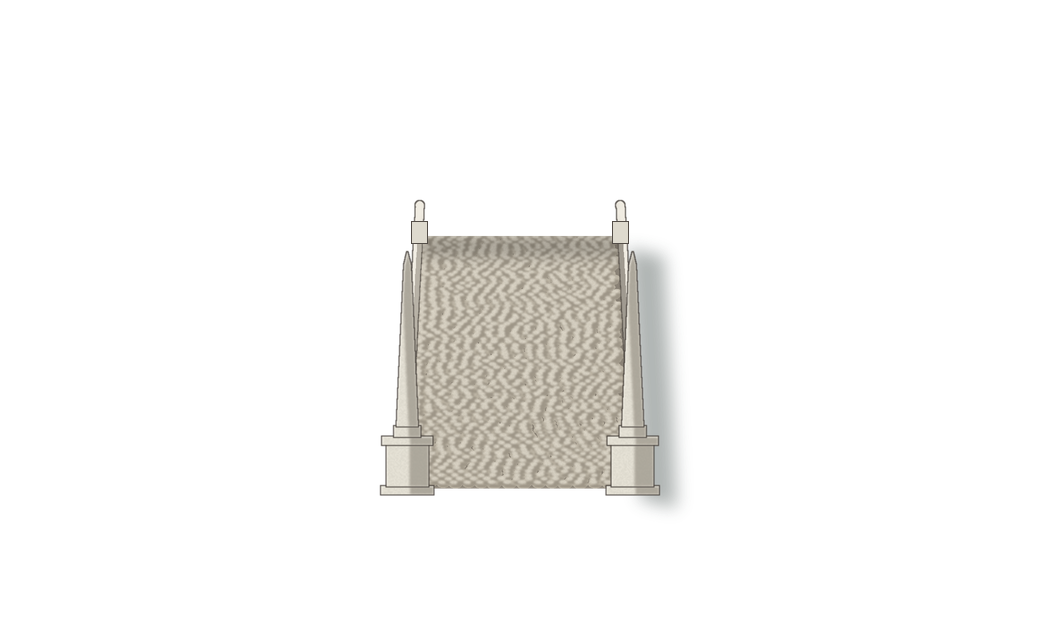
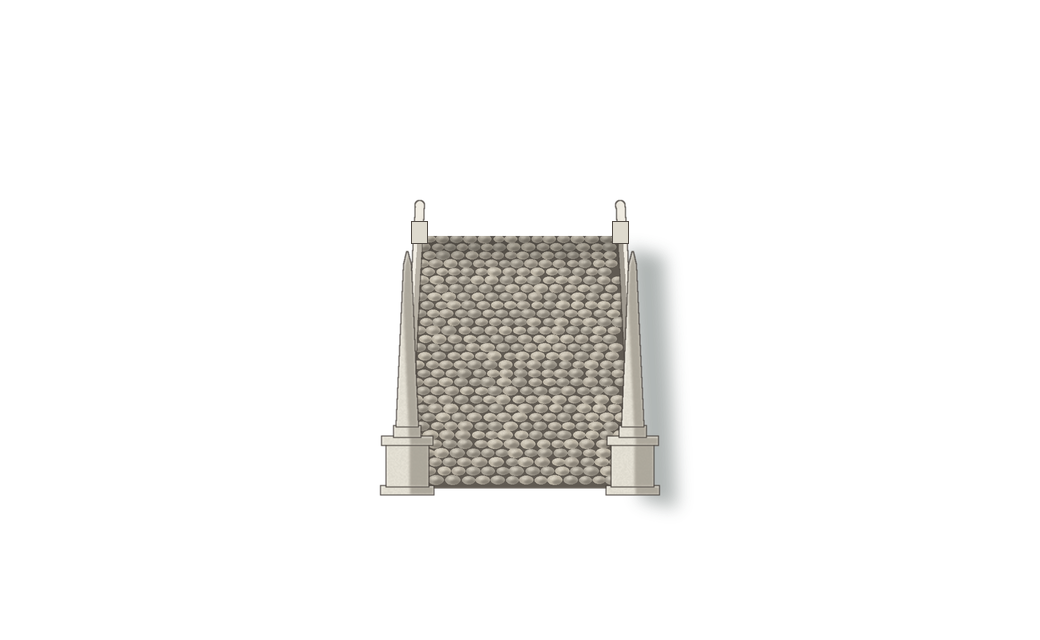
Padova: piano in ghiaia bianca, prato più vero e ponte in sanpietrini tondi
Il viale, la fascia dove si gioca e l'anello attorno alla vasca sono in terriccio
bianco col ghiaino come il vialetto; i prati hanno strisce di taglio, fili d'erba
e qualche margheritina; la passerella del ponte sud è in sanpietrini tondi.
Il piano e la vasca non fanno più ombra a terra (shadow: false): era la
striscia grigia sul bordo dove si cammina.

Claude-Session: https://claude.ai/code/session_01Bf1d2rFJnp9n4pFf7DSqn4

Changed region(s): [[0.4, 0.3438, 0.6154, 0.7812]]

diff --git a/src/shared/stages.ts b/src/shared/stages.ts
@@ -197,6 +197,7 @@ export interface StageProp {
   front?: boolean; // davanti ai lottatori (altrimenti dietro, subito dopo il palco)
   opacity?: number;
   floatersAfter?: boolean; // dopo questa decorazione il gioco disegna chi galleggia nella parte lontana del canale (#378)
+  shadow?: boolean; // false: niente ombra del sole a terra (#378), per un pavimento o una vasca che hanno già la loro dipinta
 }
 
 // Animazione di una trappola (#270): un foglio di fotogrammi uno accanto all'altro, rivolti a destra (il gioco li
@@ -544,13 +545,13 @@ export const STAGES: Record<string, StageSpec> = {
         { file: "platano.png", x: -330, y: 566, scale: 0.3 },
         { file: "platano.png", x: 2250, y: 566, scale: 0.3, flip: true },
         // Il piano dell'isola in profondità (#300): il lastricato dietro il bordo, su cui poggiano statue e platani
-        { file: "piano.png", x: 960, y: 524, scale: 0.5 },
+        { file: "piano.png", x: 960, y: 524, scale: 0.5, shadow: false }, // è il pavimento: niente ombra a terra
         // Due platani sulla piazza (#288), dietro alle statue: la chioma sta sopra le teste e lascia vedere il palco
         { file: "platano.png", x: 410, y: 522, scale: 0.5 },
         { file: "platano.png", x: 1510, y: 522, scale: 0.5, flip: true },
         // la metà vicina dell'isola ovale (#378): il prato davanti alla linea dove si gioca, il cordolo e il muro nel canale
         { file: "fianco.png", x: 960, y: 660 },
-        { file: "fontana.png", x: 960, y: 524 }, // la fontana dell'Isola Memmia: la vasca, i paracarri e la ringhiera
+        { file: "fontana.png", x: 960, y: 524, shadow: false }, // la fontana dell'Isola Memmia: la vasca, i paracarri e la ringhiera
         { file: "fontana-davanti.png", x: 960, y: 530, front: true, opacity: 0.7 }, // il bordo della vasca davanti ai piedi
         // La sponda di qua del canale (#378), sfocata davanti a tutto: il canale resta una striscia stretta come quello vero
         { file: "primo-piano.png", x: 960, y: 1100, scale: 1, front: true },

diff --git a/tools/arene/padova.py b/tools/arene/padova.py
@@ -191,6 +191,84 @@ def front_edge_y(x):
     return 520 + FRONT_D * math.sqrt(max(0.0, 1 - d * d))
 
 
+def paint_gravel(q, m, seed, y_far, y_near, density=1.0):
+    """Il terriccio bianco con il ghiaino dei viali del Prato (#378, chiesto da Riccardo), dipinto dentro la maschera m:
+    il fondo chiaro battuto con le chiazze più scure e più chiare, i granelli fini e, sopra, i sassolini (più grandi
+    vicino, y_near, e più piccoli lontano, y_far), ognuno con la luce in alto e l'ombrina sotto."""
+    rng = random.Random(seed)
+    q.fill(m, (216, 208, 188))
+    q.fill(q.grain(m, 0.55, seed, 3.5), (194, 184, 162), 0.55)  # le chiazze dove la terra è più umida
+    q.fill(q.grain(m, 0.8, seed + 1, 0.7), (236, 231, 216), 0.5)
+    q.fill(q.grain(m, 0.8, seed + 2, 0.5), (172, 162, 142), 0.35)
+    bb = m.getbbox()
+    if not bb:
+        return
+    wx0, wy0 = bb[0] / q.k + q.ox, bb[1] / q.k + q.oy
+    wx1, wy1 = bb[2] / q.k + q.ox, bb[3] / q.k + q.oy
+    peb, sh, hi = q.mask(), q.mask(), q.mask()
+    count = int((wx1 - wx0) * (wy1 - wy0) * 0.35 * density)
+    for _ in range(count):
+        x, y = rng.uniform(wx0, wx1), rng.uniform(wy0, wy1)
+        px, py = q._p(x, y)
+        if not (0 <= px < m.size[0] and 0 <= py < m.size[1]) or m.getpixel((int(px), int(py))) < 128:
+            continue
+        f = max(0.0, min(1.0, (y - y_far) / max(1e-6, y_near - y_far)))
+        r = (0.3 + 0.55 * f) * rng.uniform(0.6, 1.3)
+        q.ellipse(sh, x - r * 1.1, y - r * 0.2, x + r * 1.3, y + r * 0.8)
+        q.ellipse(peb, x - r * 1.2, y - r * 0.7, x + r * 1.2, y + r * 0.6)
+        q.ellipse(hi, x - r * 0.8, y - r * 0.6, x + r * 0.2, y - r * 0.1)
+    q.fill(q.intersect(sh, m), (150, 140, 120), 0.6)
+    peb = q.intersect(peb, m)
+    q.fill(peb, (204, 196, 178))
+    q.fill(q.intersect(q.grain(peb, 0.9, seed + 3, 0.4), peb), (178, 170, 152), 0.6)
+    q.fill(q.intersect(hi, peb), (244, 240, 228), 0.85)
+
+
+def paint_grass(q, m, seed, y_far, y_near, density=1.0):
+    """Il prato rasato del Prato (#378, chiesto da Riccardo: un'erba più bella), dipinto dentro la maschera m: il verde
+    di fondo, le strisce larghe del taglio, le chiazze più scure e più chiare a due scale, e sopra tanti fili d'erba con
+    il piede scuro e la punta chiara (più lunghi vicino, y_near), qualche trifoglio e margheritina, e un filo d'ombra
+    lungo i bordi; i fili sul bordo sbordano un poco sul viale, come l'erba vera."""
+    rng = random.Random(seed)
+    q.fill(m, (74, 100, 56))
+    bb = m.getbbox()
+    if not bb:
+        return
+    wx0, wy0 = bb[0] / q.k + q.ox, bb[1] / q.k + q.oy
+    wx1, wy1 = bb[2] / q.k + q.ox, bb[3] / q.k + q.oy
+    stripes = q.mask()
+    k = int((wx0 - 960) // 52) - 2
+    while 960 + k * 52 < wx1 + 60:
+        if k % 2 == 0:
+            xa = 960 + k * 52
+            q.poly(stripes, [(xa, wy1 + 4), (xa + 26, wy1 + 4), (xa + 26 + (wy1 - wy0) * 0.35, wy0 - 4), (xa + (wy1 - wy0) * 0.35, wy0 - 4)])
+        k += 1
+    q.fill(q.intersect(q.soften(stripes, 2.5), m), (100, 128, 70), 0.6)
+    q.fill(q.grain(m, 0.6, seed, 5.0), (56, 80, 42), 0.45)
+    q.fill(q.grain(m, 0.65, seed + 1, 1.4), (116, 144, 80), 0.45)
+    q.fill(q.grain(m, 0.7, seed + 2, 0.6), (60, 86, 44), 0.35)
+    grow = m.filter(ImageFilter.MaxFilter(5))
+    dark, light, flowers = q.mask(), q.mask(), q.mask()
+    count = int((wx1 - wx0) * (wy1 - wy0) * 0.8 * density)
+    for _ in range(count):
+        x, y = rng.uniform(wx0, wx1), rng.uniform(wy0, wy1 + 2)
+        px, py = q._p(x, y)
+        if not (0 <= px < m.size[0] and 0 <= py < m.size[1]) or grow.getpixel((int(px), int(py))) < 128:
+            continue
+        f = max(0.0, min(1.0, (y - y_far) / max(1e-6, y_near - y_far)))
+        hgt = (1.0 + 2.4 * f) * rng.uniform(0.7, 1.3)
+        lean = rng.uniform(-0.5, 0.5) * hgt
+        q.stroke(dark, [(x, y), (x + lean * 0.5, y - hgt * 0.55)], 0.32 + 0.25 * f)
+        q.stroke(light, [(x + lean * 0.5, y - hgt * 0.55), (x + lean, y - hgt)], 0.26 + 0.2 * f)
+        if rng.random() < 0.006:  # una margheritina o un trifoglio
+            r = 0.5 + 0.6 * f
+            q.ellipse(flowers, x - r, y - hgt - r * 0.7, x + r, y - hgt + r * 0.7)
+    q.fill(q.intersect(dark, grow), (48, 70, 38), 0.8)
+    q.fill(q.intersect(light, grow), (134, 164, 90), 0.8)
+    q.fill(q.intersect(flowers, grow), (236, 234, 220), 0.85)
+    q.fill(q.inner_shadow(m, 0, -2.5, 1.8), (40, 58, 32), 0.4)  # un filo d'ombra dove il prato è un po' più basso
+
+
 def fianco(name):
     """La metà vicina dell'isola ovale (#378, chiesto da Riccardo: i giocatori combattono su una linea, ma l'isola deve
     sembrare ovale anche davanti). Davanti alla linea dove si gioca (y 520, la copertina la disegna il gioco) l'isola
@@ -228,44 +306,15 @@ def fianco(name):
     # la fascia di prato davanti, vista dall'alto, e il cordolo sul bordo dell'ovale
     t = Tela(w, h, origin=(x0, y0), ss=1)
     pts = [(cx - rx + 2 * rx * i / 120, front_edge_y(cx - rx + 2 * rx * i / 120)) for i in range(121)]
-    lawn = [(cx - rx, 521)] + [(x, y) for x, y in pts] + [(cx + rx, 521)]
-    t.poly(lawn, fill=(86, 110, 64, 255))
-    for kk in range(-30, 30):  # le strisce del taglio dell'erba
-        xa = cx + kk * 46
-        t.glaze([(xa, 521), (xa + 23, 521), (xa + 23 - 18, 580), (xa - 18, 580)], (130, 156, 96, 40) if kk % 2 else (40, 60, 30, 26))
-    rng = rand(3791)
-    for kk in range(1800):
-        gx = rng.uniform(cx - rx, cx + rx)
-        gy = rng.uniform(523, front_edge_y(gx) - 2)
-        if gy > 523:
-            t.line([(gx, gy), (gx + rng.uniform(-0.6, 0.6), gy - rng.uniform(1.0, 2.4))], fill=rng.choice([(64, 84, 48, 255), (112, 138, 82, 255)]), width=0.5)
-    # il vialetto in terriccio bianco dal ponte sud alla striscia dove si gioca, verso la fontana (#378, come i viali
-    # del Prato): si allarga venendo verso di noi, ghiaino chiaro battuto, più consumato e liscio nel mezzo dove si
-    # cammina, sassolini sparsi, e i bordi irregolari dove l'erba lo invade
+    # il prato davanti e il vialetto in terriccio bianco dal ponte sud alla striscia dove si gioca (#378)
+    from pittura import Quadro
+    q = Quadro(w, h, origin=(x0, y0), scale=2, ss=1)
+    top_m = q.poly(q.mask(), [(cx - rx, 521)] + pts + [(cx + rx, 521)])
     ye = front_edge_y(cx) + 1
-    pw_far, pw_near = 40, 48
-    prng = rand(3793)
-    edge_l = [(cx - (pw_far + (pw_near - pw_far) * (y - 521) / (ye - 521)) + prng.uniform(-1.2, 1.2), y) for y in [521 + (ye - 521) * i / 12 for i in range(13)]]
-    edge_r = [(cx + (pw_far + (pw_near - pw_far) * (y - 521) / (ye - 521)) + prng.uniform(-1.2, 1.2), y) for y in [521 + (ye - 521) * i / 12 for i in range(13)]]
-    t.poly(edge_l + list(reversed(edge_r)), fill=(222, 214, 194, 255))
-    t.poly([(cx - 22, 521), (cx + 22, 521), (cx + 26, ye), (cx - 26, ye)], fill=(230, 224, 206, 255))  # il mezzo battuto
-    for kk in range(900):  # il ghiaino: granelli chiari e scuri, più grandi vicino
-        y = prng.uniform(521, ye)
-        f = (y - 521) / (ye - 521)
-        hw = pw_far + (pw_near - pw_far) * f - 1.5
-        x = prng.uniform(cx - hw, cx + hw)
-        r = 0.25 + 0.35 * f * prng.random()
-        t.circle(x, y, r, fill=prng.choice([(196, 186, 164, 255), (240, 236, 222, 255), (178, 168, 148, 255)]))
-    for kk in range(10):  # qualche sasso più grosso
-        y = prng.uniform(524, ye - 2)
-        x = prng.uniform(cx - pw_far, cx + pw_far)
-        t.ellipse(x - 1.1, y - 0.6, x + 1.1, y + 0.6, fill=(184, 176, 158, 255))
-    for side_pts in (edge_l, edge_r):  # l'erba che invade i bordi
-        for (x, y) in side_pts:
-            for j in range(4):
-                gx = x + prng.uniform(-2, 2)
-                gy = y + prng.uniform(-2, 2)
-                t.line([(gx, gy), (gx + prng.uniform(-0.6, 0.6), gy - prng.uniform(1.0, 2.2))], fill=(96, 118, 70, 255), width=0.5)
+    path_m = q.intersect(q.poly(q.mask(), [(cx - 40, 519), (cx + 40, 519), (cx + 48, ye + 1), (cx - 48, ye + 1)]), top_m)
+    paint_gravel(q, path_m, 3003, 521, ye)
+    paint_grass(q, q.minus(top_m, path_m), 3004, 521, 520 + FRONT_D)
+    t.img.alpha_composite(q.img)
     t.glaze([(cx - rx, 521), (cx + rx, 521), (cx + rx, 527), (cx - rx, 527)], (30, 28, 24, 60))  # l'ombra della copertina sul prato
     base = t.img
     base.alpha_composite(wall)
@@ -285,23 +334,16 @@ def fianco(name):
 
 
 def coping(name, w=96, h=8):
-    """Il bordo dove si cammina (#378, chiesto da Riccardo: senza il gradino): una fascia di lastre di trachite chiara
-    a filo della piazza e del prato, vista dall'alto come loro, con i giunti e un filo di luce sul davanti; niente faccia
-    in ombra né riga scura sotto, così il vialetto e la piazza continuano oltre senza scalini. Resta la parte più chiara
-    del palco (stile, sezione 7)."""
+    """Il bordo dove si cammina (#378): la stessa ghiaia chiara battuta del piano, a filo, appena più chiara (stile,
+    sezione 7: il bordo calpestabile è la parte più chiara), senza gradino; un filo di luce sul davanti."""
     t = Tela(w, h, wrap=True)
     rng = rand(7)
-    t.rect(0, 0, w, h, fill=EDGE)
-    for x0 in (0, w / 2):
-        tone = mix(EDGE, (214, 208, 192, 255), rng.random() * 0.6)
-        t.rect(x0 + 0.5, 0.4, x0 + w / 2 - 0.5, h - 0.4, fill=tone)
-    for k in range(40):  # la grana della pietra
-        x, y = rng.uniform(0, w), rng.uniform(0.5, h - 0.5)
-        t.circle(x, y, 0.35, fill=(196, 190, 176, 255))
-    for x in (0, w / 2):
-        t.line([(x, 0), (x, h)], fill=(176, 170, 156, 255), width=0.6)
-    t.line([(0, 0.3), (w, 0.3)], fill=(198, 192, 178, 255), width=0.5)  # il giunto con la piazza, appena segnato
-    t.line([(0, h - 0.5), (w, h - 0.5)], fill=(246, 244, 236, 255), width=0.6)  # il filo di luce sul davanti
+    t.rect(0, 0, w, h, fill=(230, 224, 208, 255))
+    for k in range(220):
+        x, y = rng.uniform(0, w), rng.uniform(0.3, h - 0.3)
+        r = rng.uniform(0.18, 0.5)
+        t.ellipse(x - r * 1.2, y - r * 0.7, x + r * 1.2, y + r * 0.7, fill=rng.choice([(206, 198, 178, 255), (244, 240, 228, 255), (190, 180, 160, 255)]))
+    t.line([(0, h - 0.5), (w, h - 0.5)], fill=(246, 244, 236, 255), width=0.6)
     t.save(OUT, name)
 
 
@@ -2587,31 +2629,37 @@ def front_bridges(name):
     # l'ombra del ponte sull'acqua, a destra (la luce viene da sinistra in alto)
     q.fill(q.soften(q.poly(q.mask(), [(x + 4, y + 6) for x, y in R] + [(x + 22, y + 10) for x, y in reversed(R)]), 4), (30, 44, 40), 0.35)
     deck = q.poly(q.mask(), L + list(reversed(R)))
-    # la passerella in ciottoli (#378, come i ponti del Prato): sassi tondi e ovali messi a file trasversali, più piccoli
-    # lontano, ognuno con la luce in alto a sinistra e l'ombra sotto, nella malta scura
-    q.fill(deck, (138, 130, 118))
+    # la passerella in sanpietrini tondi (#378, come i ponti del Prato): sassi di trachite tondeggianti messi a file
+    # sfalsate, più piccoli lontano, nelle fughe scure; ogni sasso è un piccolo volume con la luce in alto a sinistra,
+    # l'ombra in basso a destra e il suo tono, un po' diverso dai vicini
+    q.fill(deck, (96, 90, 82))
     crng = rand(3794)
-    stones, shades, lights = q.mask(), q.mask(), q.mask()
-    for i in range(n * 2):
-        u = i / (n * 2)
-        y = yf + (yn - yf) * u
+    tones = [q.mask(), q.mask(), q.mask()]
+    shades, lights = q.mask(), q.mask()
+    y = yf + 1.5
+    row = 0
+    while y < yn:
+        u = (y - yf) / (yn - yf)
         k = scale(u)
-        lx, ly = edge(-1, u)
-        rx_, ry_ = edge(1, u)
-        rr = 2.6 * k  # i ciottoli, grandi quanto una mano a quella distanza
-        x = lx + rr * 1.2 + (crng.random() * rr if i % 2 else 0)
-        while x < rx_ - rr:
-            r = rr * crng.uniform(0.75, 1.15)
-            yy = ly + (ry_ - ly) * (x - lx) / max(1e-6, rx_ - lx)
-            q.ellipse(stones, x - r * 1.15, yy - r * 0.7, x + r * 1.15, yy + r * 0.7)
-            q.ellipse(lights, x - r * 0.9, yy - r * 0.62, x + r * 0.3, yy - r * 0.05)
-            q.ellipse(shades, x - r * 0.8, yy + r * 0.1, x + r * 1.15, yy + r * 0.7)
-            x += r * 2.3
-    stones = q.intersect(stones, deck)
-    q.fill(stones, (190, 182, 166))
-    q.fill(q.intersect(q.soften(shades, 0.4), stones), (150, 142, 128), 0.8)
-    q.fill(q.intersect(q.soften(lights, 0.4), stones), (226, 220, 206), 0.85)
-    q.fill(q.grain(stones, 0.3, 95, 0.5), (164, 156, 140), 0.5)
+        r = 3.2 * k
+        lx, _ = edge(-1, u)
+        rx_, _ = edge(1, u)
+        x = lx + r * (0.6 if row % 2 else 1.6)
+        while x < rx_ - r * 0.6:
+            rr = r * crng.uniform(0.85, 1.1)
+            ry_ = rr * 0.62
+            q.ellipse(tones[crng.randrange(3)], x - rr, y - ry_, x + rr, y + ry_)
+            q.ellipse(lights, x - rr * 0.75, y - ry_ * 0.85, x + rr * 0.2, y - ry_ * 0.05)
+            q.ellipse(shades, x - rr * 0.3, y - ry_ * 0.1, x + rr * 1.0, y + ry_ * 1.0)
+            x += rr * 2.15
+        y += r * 0.62 * 2.05
+        row += 1
+    stones = q.intersect(q.union(q.union(tones[0], tones[1]), tones[2]), deck)
+    for m_, col in zip(tones, ((182, 174, 160), (166, 160, 148), (196, 188, 172))):
+        q.fill(q.intersect(m_, deck), col)
+    q.fill(q.intersect(q.soften(shades, 0.5), stones), (120, 114, 104), 0.7)
+    q.fill(q.intersect(q.soften(lights, 0.5), stones), (232, 226, 212), 0.75)
+    q.fill(q.intersect(q.grain(stones, 0.5, 95, 0.4), stones), (140, 134, 122), 0.35)
     q.fill(q.intersect(q.soften(q.poly(q.mask(), [L[0], R[0], R[4], L[4]]), 3), deck), (40, 38, 34), 0.25)  # sotto il bordo della piazza
     # i due parapetti traforati a cerchi intrecciati, visti da dentro: cominciano poco dopo la piazza, così non coprono
     # i piedi di chi combatte; quello a destra è in ombra; gli obelischi alti sul capo di qua
@@ -2941,33 +2989,14 @@ def piano(name):
         return (cx + rx * f * math.cos(a), cy - ry * f * math.sin(a))
 
     rng = rand(300)
-    rings = [1.0, 0.9, 0.79, 0.67, 0.54, 0.4, 0.25, 0.1, 0.0]
-    base = mix(EDGE, STONE_LIGHT, 0.42)
     far_col = mix(EDGE, STONE, 0.62)
-    joints = []
-    for i, (fo, fi) in enumerate(zip(rings, rings[1:])):
-        fm = (fo + fi) / 2
-        n = max(6, int(math.pi * rx * fm / 46))  # lastre dell'anello
-        off = (i % 2) * 0.5
-        for j in range(n):
-            a0 = math.pi * max(0.0, min(1.0, (j + off) / n))
-            a1 = math.pi * max(0.0, min(1.0, (j + 1 + off) / n))
-            if a1 - a0 < 1e-3:
-                continue
-            outer = [pt(fo, a0 + (a1 - a0) * u / 4) for u in range(5)]
-            inner = [pt(fi, a1 - (a1 - a0) * u / 4) for u in range(5)]
-            depth = math.sin((a0 + a1) / 2) * fm  # 0 davanti, 1 in fondo
-            row_col = mix(base, far_col, depth)
-            col = mix(row_col, shade(row_col, 0.9), rng.random() * 0.6)
-            t.poly(outer + inner, fill=col)
-            if rng.random() < 0.22:  # qualche lastra consumata, più chiara al centro
-                mx, my = pt(fm, (a0 + a1) / 2)
-                t.glaze([(mx - 7, my), (mx, my - 1.2), (mx + 7, my), (mx, my + 1.2)], (255, 250, 236, 40))
-            joints.append(([pt(fo, a0), pt(fi, a0)], mix(STONE_SHADE, row_col, 0.35), 0.4 + 0.35 * (1 - depth)))
-        ring_col = mix(STONE_SHADE, mix(base, far_col, 0.5), 0.35)
-        joints.append(([pt(fi, math.pi * u / 80) for u in range(81)], ring_col, 0.5))
-    for pts, col, w in joints:
-        t.line(pts, fill=col, width=w)
+    # il piano dell'isola è in terriccio bianco e ghiaino come i viali del Prato (#378, chiesto da Riccardo): la fascia
+    # dove si combatte, il viale verso la fontana e l'anello attorno alla vasca; i prati si dipingono sopra
+    from pittura import Quadro
+    qg = Quadro(x1 - x0, y1 - y0, origin=(x0, y0))
+    half = qg.poly(qg.mask(), [pt(1.0, math.pi * u / 160) for u in range(161)])
+    paint_gravel(qg, half, 3001, cy - ry, 520)
+    t.img.alpha_composite(qg.img)
     # il ciglio dell'ovale: lo spigolo della pietra e un filo d'ombra, poi c'è il canale
     t.line([pt(1.0, math.pi * u / 120) for u in range(121)], fill=shade(far_col, 0.7), width=1.0)
     # l'isola è soprattutto prato (#378, dalle foto di Riccardo): i prati tagliati a strisce dietro la fascia lastricata
@@ -2985,27 +3014,16 @@ def piano(name):
         pts_[:] = [(x, y) for x, y in pts_ if abs(x - cx) > 34 and y < 506]
         pts_.append((cx + side * (rx - 60), 506))
         pts_.append((cx + side * 34, 506))
-    lawn_q = Tela(x1 - x0, y1 - y0, origin=(x0, y0))
+    ql = Quadro(x1 - x0, y1 - y0, origin=(x0, y0))
+    lawn_m = ql.mask()
     for pts_ in (lawn_pts_l, lawn_pts_r):
         if len(pts_) > 3:
-            lawn_q.poly(pts_, fill=(88, 112, 66, 255))
-    for k in range(-40, 40):  # le strisce del taglio dell'erba, in diagonale
-        xa = cx + k * 46
-        lawn_q.glaze([(xa, 520), (xa + 23, 520), (xa + 23 + 40, 460), (xa + 40, 460)], (130, 156, 96, 46) if k % 2 else (40, 60, 30, 30))
-    for k in range(2400):
-        gx, gy = rng.uniform(x0, x1), rng.uniform(462, 506)
-        lawn_q.line([(gx, gy), (gx + rng.uniform(-0.6, 0.6), gy - rng.uniform(1.0, 2.6))], fill=rng.choice([(64, 84, 48, 255), (112, 138, 82, 255)]), width=0.5)
-    mask = Image.new("L", t.img.size, 0)
-    md = ImageDraw.Draw(mask)
-    for pts_ in (lawn_pts_l, lawn_pts_r):
-        if len(pts_) > 3:
-            md.polygon(t._pts(pts_, 0, 0), fill=255)
-    rx_f, ry_f = 238, 25  # l'anello lastricato attorno alla vasca resta pietra
-    md.ellipse(t._box((cx - rx_f, 492 - ry_f, cx + rx_f, 492 + ry_f), 0, 0), fill=0)
-    t.img.paste(lawn_q.img, (0, 0), mask)
-    for pts_ in (lawn_pts_l, lawn_pts_r):
-        if len(pts_) > 3:
-            t.line(pts_ + [pts_[0]], fill=(150, 144, 130, 255), width=0.9)  # il bordo di pietra delle aiuole
+            ql.poly(lawn_m, pts_)
+    rx_f, ry_f = 238, 25  # l'anello in ghiaia attorno alla vasca
+    lawn_m = ql.minus(lawn_m, ql.ellipse(ql.mask(), cx - rx_f, 492 - ry_f, cx + rx_f, 492 + ry_f))
+    lawn_m = ql.smooth(lawn_m, 0.8)
+    paint_grass(ql, lawn_m, 3002, cy - ry, 506)
+    t.img.alpha_composite(ql.img)
     # il cordolo bianco sul ciglio dell'isola, con la fila di statue sui piedistalli (l'anello di dentro del Prato)
     t.line([pt(1.0, math.pi * u / 120) for u in range(121)], fill=(220, 214, 200, 255), width=2.4)
     t.line([(x, y + 1.2) for x, y in [pt(1.0, math.pi * u / 120) for u in range(121)]], fill=(150, 144, 130, 255), width=0.7)
